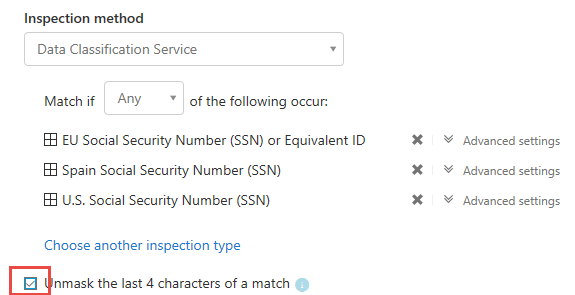
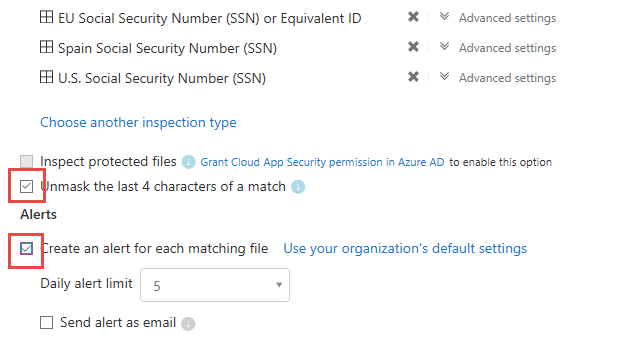
info done

diff --git a/instructions.md b/instructions.md
@@ -432,13 +432,14 @@ In this task, we will join 3 systems to the Azure AD tenant to provide SSO capab
 To be able to complete the different parts of the Cloud App Security labs, the following configuration steps are required.
 
 * [Enabling Office 365 auditing](#enabling-office-365-auditing)
-* [Connect Office 365 and Box to Cloud App Security](#connect-office-365-to-cloud-app-security)
+* [Enabling file monitoring](#enabling-file-monitoring)
+* [Create a Developer Box Account](#create-a-developer-box-account)
+* [Connect Office 365 and Box to Cloud App Security](#connect-office-365-and-box-to-cloud-app-security)
 * [Enabling Azure Information Protection integration](#enabling-azure-information-protection-integration)
 
 ---
 
 ## Enabling Office 365 auditing
-
 [:arrow_up: Top](#mcas-environment-preparation)
 
 Most Cloud App Security treat detections capabilities rely on auditing being enabled in your environment. By default, auditing is not enabled in Office 365 and must then be turned on using the **Security & Compliance** admin console or PowerShell.
@@ -465,6 +466,7 @@ Most Cloud App Security treat detections capabilities rely on auditing being ena
     >:warning: As this operation can take up to 24h, your instructor will provide you access to another environment to review the alerts for the threat detection lab.
 
 ### Exchange Auditing Configuration
+[:arrow_up: Top](#mcas-environment-preparation)
 
 In addition to enabling auditing in Office 365, some applications like Exchange Online require extra configuration. After enabling auditing at the Office 365 level, we have to enable auditing at the mailBox level. We will perform this configuration before going to the labs.
 
@@ -490,8 +492,21 @@ In addition to enabling auditing in Office 365, some applications like Exchange 
 
 ---
 
-## Create a Developer Box Account 
+## Enabling file monitoring
+[:arrow_up: Top](#mcas-environment-preparation)
 
+1. [] Go to Cloud App Security settings.
+
+    !IMAGE[Settings](\Media\conf-settings.png "Settings")
+
+1. [] Go down in the settings to the **Files** section and check the **Enable file monitoring** checkbox and click on the "**Save** button.
+
+    !IMAGE[Enable files](\Media\conf-files.png "Enable files")
+
+---
+
+## Create a Developer Box Account
+[:arrow_up: Top](#mcas-environment-preparation)
 
 1. [] Next, navigate to ```https://developer.box.com``` and click on **Get Started**. 
 
@@ -517,7 +532,6 @@ In addition to enabling auditing in Office 365, some applications like Exchange 
 ---
 
 ## Connect Office 365 and Box to Cloud App Security 
-
 [:arrow_up: Top](#mcas-environment-preparation)
 
 To connect Cloud App Security to Office 365, you will have to use the Office 365 app connector. App connectors use the APIs of app providers to enable greater visibility and control by Microsoft Cloud App Security over the apps you connect to.  We will also use this method to show integration with the 3rd Party API for Box.
@@ -543,7 +557,7 @@ To connect Cloud App Security to Office 365, you will have to use the Office 365
 ---
 
 ## Connecting Box to Cloud App Security
-
+[:arrow_up: Top](#mcas-environment-preparation)
 
 1. []  Click on the **+** button again, and this time click on **Box**.
 
@@ -583,7 +597,6 @@ To connect Cloud App Security to Office 365, you will have to use the Office 365
 ---
 
 ## Enabling Azure Information Protection integration
-
 [:arrow_up: Top](#mcas-environment-preparation)
 
 To prepare the **Information Protection** lab, we have to enable the integration between Cloud App Security and Azure Information Protection as explained in the [Cloud App Security documentation](https://docs.microsoft.com/en-us/cloud-app-security/azip-integration). Enabling the integration between the two solutions is as easy as selecting one single checkBox.
@@ -2634,23 +2647,22 @@ In this lab you will perform the configuration of a **Log collector**.
 In a perfect world, all your employees understand the importance of information protection and work within your policies. But in a real world, it's probable that a partner who works with accounting uploads a document to your Box repository with the wrong permissions, and a week later you realize that your enterprise's confidential information was leaked to your competition.
 Microsoft Cloud App Security helps you prevent this kind of disaster before it happens.
 
+!IMAGE[IP](\Media\IPCAS.JPG)
+
+===
 ## Labs
 
 * [Apply AIP classification to SSN documents:](#apply-aip-classification-to-ssn-documents)
 * [Quarantine sensitive PDF for review:](#quarantine-sensitive-pdf-for-review)
 * [Test our policies:](#test-our-policies)
 
-	!IMAGE[IP](\Media\IPCAS.JPG)
-
-===
-
 File policies are a great tool for finding threats to your information protection policies, for instance finding places where users stored sensitive information, credit card numbers and third-party ICAP files in your cloud. With Cloud App Security, not only can you detect these unwanted files stored in your cloud that leave you vulnerable, but you can take im/mediate action to stop them in their tracks and lock down the files that pose a threat.
 Using Admin quarantine, you can protect your files in the cloud and remediate problems, as well as prevent future leaks from occurring.
 
-In this lab, we are going to configure files policies to apply an **Azure Information Protection** template on documents containing social security numbers and quarantine sensitive files that are shared externally.
-
 ## Apply AIP classification to SSN documents
 [:arrow_up: Top](#information-protection)
+
+In this lab, we are going to configure a file policy to apply an **Azure Information Protection** template on documents containing social security numbers. This method could be compared to the **Azure Information Protection Scanner** for documents that are stored on file servers.
 
 1. [] In the Cloud App Security portal, go to **Control** and then click on **Policies.**
 
@@ -2664,15 +2676,12 @@ In this lab, we are going to configure files policies to apply an **Azure Inform
 
     >|||
     >|---------|---------|
-    >|Policy Name| **Protect SSN documents in sensitive site**|
-    >|Files matching all of the following| **remove the filters** |
-    >|Apply to| **Selected Folders , All Files(Box)** |
+    >|Policy Name| ```Protect SSN documents in sensitive site```|
+    >|Files matching all of the following| **App equals Box** |
+    >|Apply to| **All Files** |
 
 
-    ^IMAGE[Open Screenshot](\Media\allfilesBox1.JPG)  
-
-1. [] Verify that you have one selected folder and click on **Done**.
-
+    ^IMAGE[Open Screenshot](\Media\allfilesBox1.png)  
 
 1. [] In the inspection method, select **Data Classification Service**.
 
@@ -2687,13 +2696,17 @@ In this lab, we are going to configure files policies to apply an **Azure Inform
     ^IMAGE[Open Screenshot](\Media\info-type.png "SSN type")
 
 
-1. Search and select the **all the SSN's that populate** and click on **Done**.
+1. Search and select the **all** the information types matching ```SSN``` and click on **Done**.
+
+    > [!HINT] Be sure to select the checkboxes as clicking on the name do not select the information type.
 
     !IMAGE[SSN type](\Media\info-ssn.png "SSN type")
 
-1. [] Click on the **Unmask** checkBox.
+1. [] Click on the **Unmask the last 4 characters of a match** and the **Create an alert for each matching file** checkboxes.
 
     ^IMAGE[Open Screenshot](\Media\info-unmask.png "Unmask")
+
+    > [!KNOWLEDGE] In production scenarios, as you will probably have thousands of matches, you will **not** create alerts but use the **policy matches** approach instead.
 
 1. [] In the Governance actions, click on **Box** and select **Apply classification label**. Select the **Highly Confidental Employees Only** label. 
 
@@ -2709,6 +2722,8 @@ In this lab, we are going to configure files policies to apply an **Azure Inform
 ## Quarantine sensitive PDF for review
 [:arrow_up: Top](#information-protection)
 
+In this lab, we are going to configure a file policy to quarantine sensitive PDF files that are shared externally, so an admin can review those files and validate if they could or not be shared externally. **Admin quarantine** can also be used to isolate files that should not have been uploaded to cloud storage apps.
+
 1. [] In the Cloud App Security portal, go to **Control** and then click on **Policies.**
 
     ^IMAGE[Open Screenshot](\Media\info-policies.png "Policies")
@@ -2721,62 +2736,69 @@ In this lab, we are going to configure files policies to apply an **Azure Inform
 
     >|Policy name|Files matching all of the following|
     >|---------|---------|
-    >|Quarantine sensitive pdf| Extension equals pdf|
+    >|```Quarantine sensitive pdf```| Extension equals pdf **and** Access level equals Public, External|
 
     !IMAGE[New policy](\Media\info-policy3.png "New policy")
 
-1. [] Check the **Create an alert for each matching file** checkBox. In Governance actions of the policy, select **Put in admin quarantine** for Box and click on the **Create** button.
+1. [] Check the **Create an alert for each matching file** checkBox. 
 
-      !IMAGE[Unmask](\Media\Boxgovadmin.JPG)
+1. [] In Governance actions of the policy, select **Put in admin quarantine** for Box and click on the **Create** button.
+
+    !IMAGE[Unmask](\Media\Boxgovadmin.JPG)
 
 ---
 
 ## Test our Policies
-
 [:arrow_up: Top](#information-protection)
 
 To test our files policies, perform the following tasks:
 
 1. [] On Client01, unzip the content of the **Demo files.zip**.
 
-2. [] Go to the **Box** documents library. 
+1. [] Go to the **Box** files ```https://app.box.com/folder/0```
 
-3. [] Upload the unzipped files to the site.
+1. [] Upload the unzipped files to the site.
 
-4. [] Cloud App Security will now scan those documents and search for matches to our created policies.
+    ^IMAGE[Open Screenshot](\Media\info-uploadbox.png "Upload")
+
+1. [] After upload is complete, **share** the PDF document named **Protect with Microsoft Cloud App Security proxy.pdf**
+
+    ^IMAGE[Open Screenshot](\Media\info-share1.png "Upload")
+
+    ^IMAGE[Open Screenshot](\Media\info-share2.png "Upload")
+
+1. [] Cloud App Security will now scan those documents and search for matches to our created policies.
 
     >:memo: The scan can take **several minutes** before completion.
 
-
-
-5. [] To monitor the evolution of the scan, go back to Cloud App Security and open the **Files** page of the investigations.
+1. [] To monitor the evolution of the scan, go back to Cloud App Security and open the **Files** page of the investigations.
 
     !IMAGE[Search files](\Media\info-files1.png "Search files")
 
-6. [] You can search for the files you uploaded using different criteria, like **file name**, **type**, ... or just look at all the files discovered by Cloud App Security.
+1. [] You can search for the files you uploaded using different criteria, like **file name**, **type**, ... or just look at all the files discovered by Cloud App Security.
 
     !IMAGE[Search files](\Media\Boxfilesmatch.JPG)
 
 
-7. [] When a policy match is discovered, you will see it in this page.
+1. [] When a policy match is discovered, you will see it in this page.
 
     >:memo: Next to the file name, you have icons showing that an AIP label was applied and that we have a policy match.
 
 	  !IMAGE[PolicyMatch](\Media\Boxmatchedpolicies.JPG)
 
-8. [] To open the details of the file, click on its name. You can see there the matched policies and the scan status of the files.
+1. [] To open the details of the file, click on its name. You can see there the matched policies and the scan status of the files.
 
     !IMAGE[Scan status](\Media\info-files5.png "Scan status")
 
-9. [] You can also view the related governance actions, like applying the Azure Information classification or moving the file to the quarantine folder, at the file level or in the **Governance log**.
+1. [] You can also view the related governance actions, like applying the Azure Information classification or moving the file to the quarantine folder, at the file level or in the **Governance log**.
 
     !IMAGE[Governance log](\Media\Boxgovlog.jpg) "Governance log")
 
-10. [] If you go back to **Box**, you will also notice that the quarantined files will be replaced by placeholders containing your custom message. The original file will be moved to the "Quarantine" location we defined in the settings.
+1. [] If you go back to **Box**, you will also notice that the quarantined files will be replaced by placeholders containing your custom message. The original file will be moved to the "Quarantine" location we defined in the settings.
 
->:memo: **For Box, the quarantine folder location and user message can't be customized. The folder location is the drive of the admin who connected Box to Cloud App Security and the user message is: This file was quarantined to your administrator's drive because it might violate your company's security and compliance policies. Contact your IT administrator for help.**
+    > [!KNOWLEDGE]  For Box, the quarantine folder location and user message **can't be customized**. The folder location is the drive of the admin who connected Box to Cloud App Security and the user message is: This file was quarantined to your administrator's drive because it might violate your company's security and compliance policies. Contact your IT administrator for help.
 
-	!IMAGE[results](\Media\Boxportalresults.jpg)
+    !IMAGE[results](\Media\Boxportalresults.jpg)
 
 ===
 
